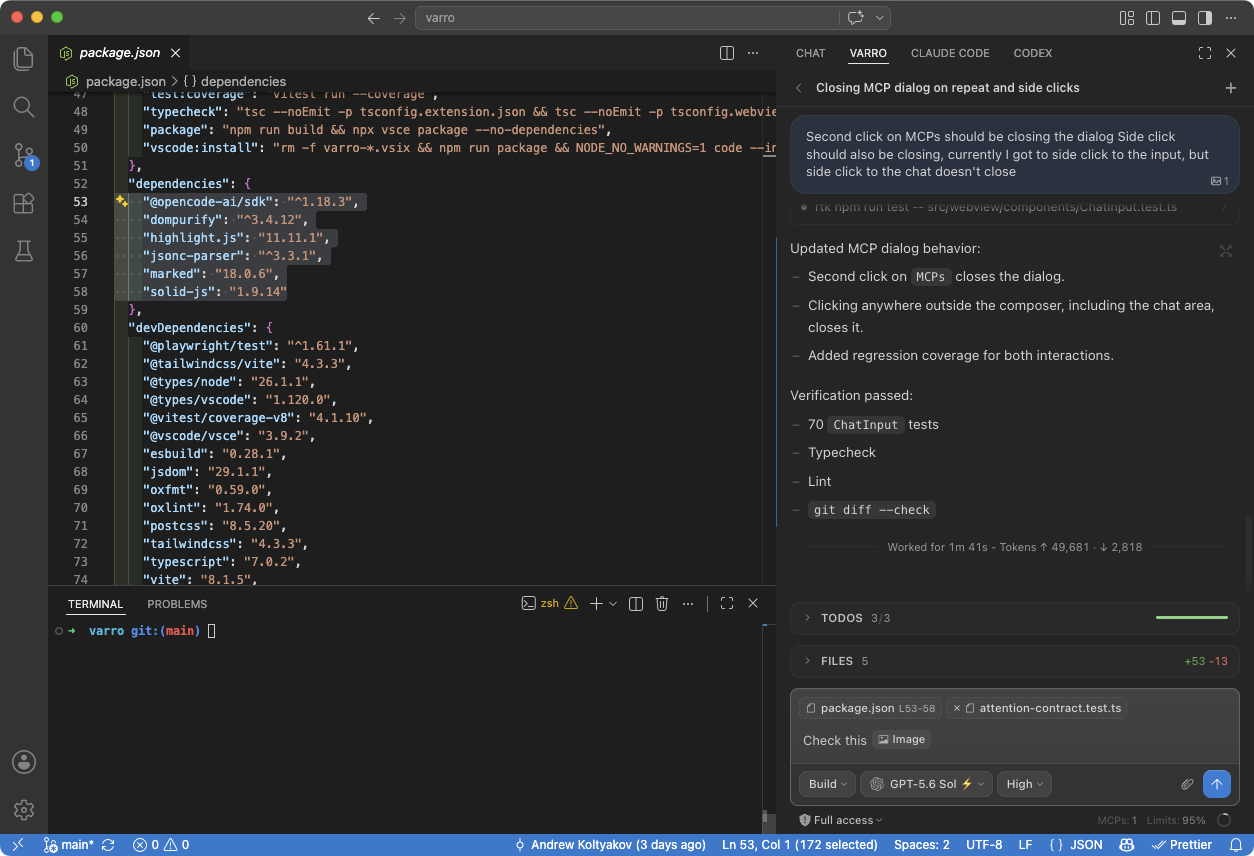
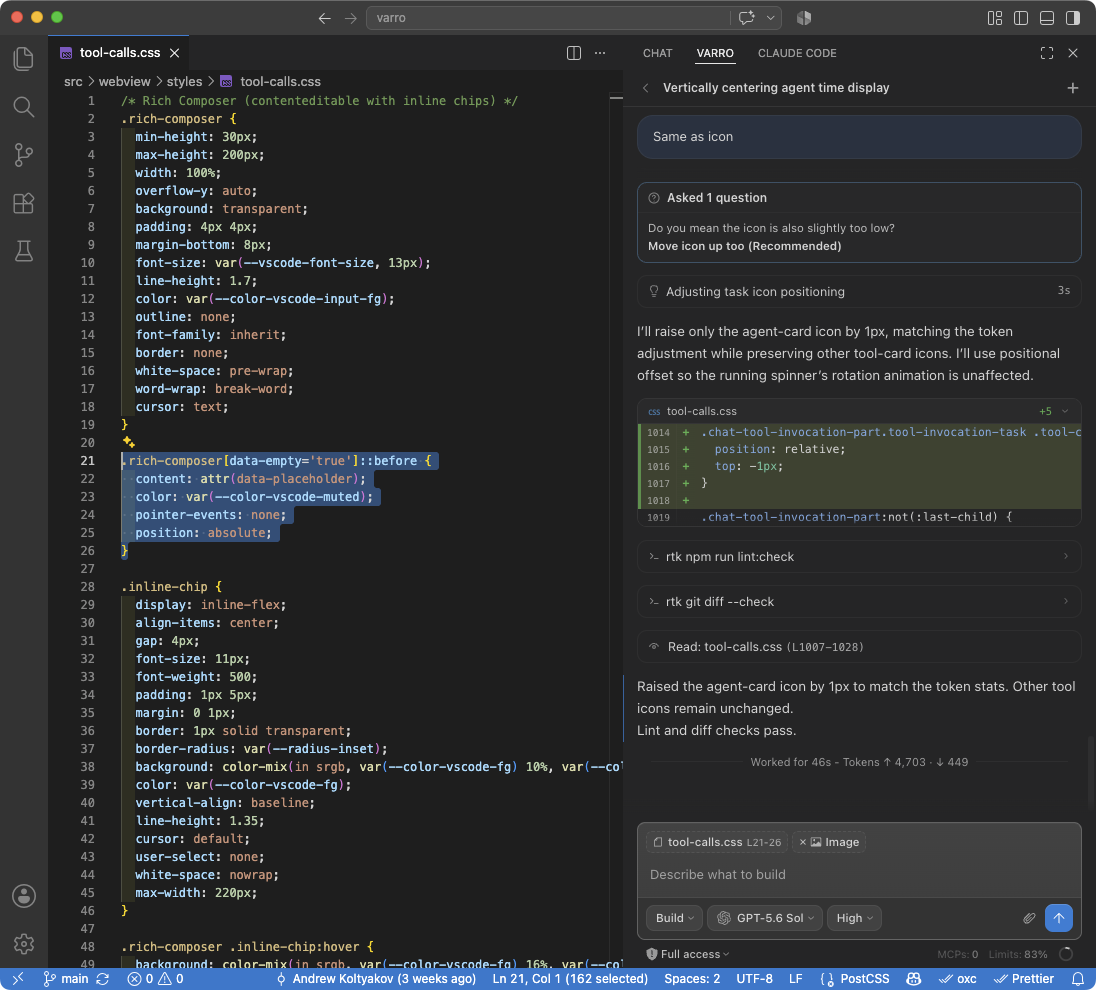
feat: update README and package.json for improved branding and description clarity

diff --git a/README.md b/README.md
@@ -1,24 +1,25 @@
-# Varro for OpenCode
+# Varro: The OpenCode Workbench
 
 [![Visual Studio Marketplace](https://vsmarketplacebadges.dev/version-short/koltyakov.varro.svg)](https://marketplace.visualstudio.com/items?itemName=koltyakov.varro)
 [![Installs](https://vsmarketplacebadges.dev/installs-short/koltyakov.varro.svg)](https://marketplace.visualstudio.com/items?itemName=koltyakov.varro)
 [![License: MIT](https://img.shields.io/badge/license-MIT-blue.svg)](https://github.com/koltyakov/varro/blob/main/LICENSE)
 
-Varro is a focused VS Code UI for [OpenCode](https://opencode.ai), designed for daily agentic development. It keeps chat, project context, session management, permissions, model controls, provider limits, and token usage inside the editor.
+**The complete OpenCode experience inside VS Code.**
 
-Your local OpenCode configuration remains the source of truth for agents, providers, models, commands, skills, and MCP servers.
+Varro brings [OpenCode](https://opencode.ai) into a compact, project-aware workbench for daily agentic development. Run agents, manage parallel sessions, review plans and file changes, control models and permissions, and monitor context, tokens, and provider limits without leaving the editor.
 
-![Varro running OpenCode in VS Code](https://raw.githubusercontent.com/koltyakov/varro/main/assets/demo.png)
+Varro builds on OpenCode instead of replacing it. Your local OpenCode configuration remains the source of truth for agents, providers, models, commands, skills, and MCP servers.
+
+![The Varro OpenCode workbench in VS Code](https://raw.githubusercontent.com/koltyakov/varro/main/assets/demo.png)
 
 ## Why Varro
 
-- **Compact, consistent UI.** Streaming output, reasoning, tool activity, permissions, questions, todos, and changed files share the same chat flow and remain readable in a sidebar.
-- **Focused scope.** Chat, context, sessions, approvals, and usage information stay central. Planning and automation are available without taking over the normal prompt-and-response workflow.
-- **Context-aware composer.** The active file and selection can follow the conversation automatically, while Explorer items, terminal output, files, folders, images, and `@` mentions can be added explicitly.
-- **Parallel sessions with explicit state.** Workspace sessions identify running, attention-needed, failed, completed, and plan-ready work. Notifications and the status bar cover sessions running in the background.
-- **Visible provider limits.** When quota data is available, remaining capacity and reset windows appear next to the model controls, where they can inform provider and model selection.
-- **Detailed token accounting.** Context-window fill and session totals for input, output, reasoning, cache, and sub-agent activity can be inspected without leaving the chat.
-- **Direct OpenCode controls.** Agents, models, reasoning variants, permission modes, and per-session MCP connections are available from the composer.
+- **Built for the whole agent loop.** Prompts, streaming output, reasoning, tool activity, permissions, questions, todos, plans, and changed files stay in one readable flow.
+- **Project context without busywork.** The active file and selection can follow the conversation automatically, while Explorer items, terminal output, files, folders, images, and `@` mentions can be added explicitly.
+- **Parallel work that stays understandable.** Workspace sessions clearly identify running, attention-needed, failed, completed, and plan-ready work. Notifications and the status bar keep background sessions visible.
+- **OpenCode controls at the point of work.** Agents, models, reasoning variants, permission modes, and per-session MCP connections are available from the composer.
+- **Usage you can act on.** Provider limits and reset windows appear next to model controls when available, while detailed accounting covers context fill, input, output, reasoning, cache, and sub-agent tokens.
+- **Compact by design.** The complete workflow remains readable in a sidebar, with an optional session pane for larger layouts.
 
 ## Sessions
 
